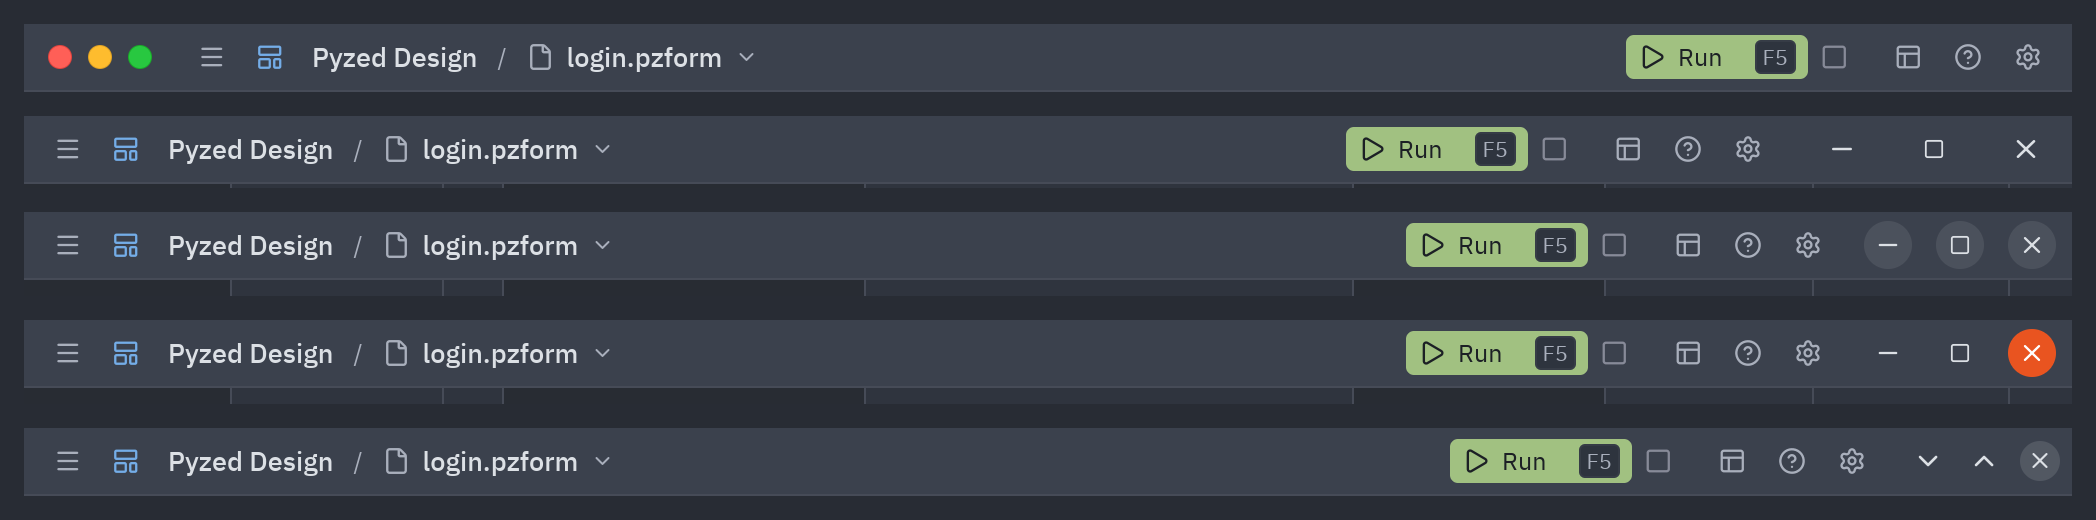
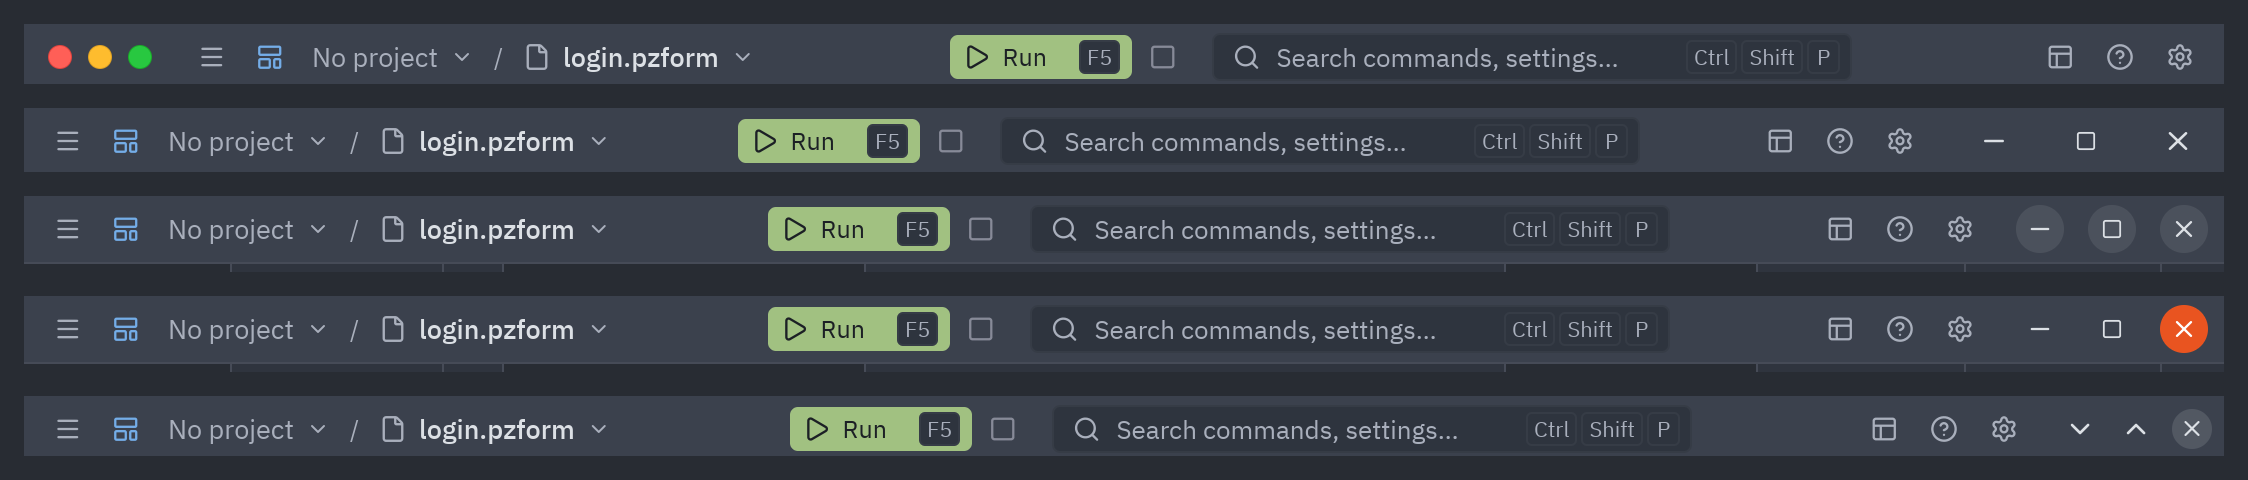
🍱 Make the window frames picture from the current title bars in designer_shots.py

diff --git a/docs/scripts/designer_shots.py b/docs/scripts/designer_shots.py
@@ -118,8 +118,38 @@ def title_bar():
         out = EDITOR / f"title-bar-{style}.png"
         save(app, out)
         crop(out, (0, 0, SIZE[0], ui_frame.HEIGHTS[style] + 4))
+    window_frames()
     app = make(frame=None)
     save(app, EDITOR / "system-frame.png")
+
+
+def window_frames(width=1100, gap=12):
+    """The title bar of every desktop stacked in one picture (macOS, Windows, GNOME, Ubuntu, KDE), on a
+    narrower window so the bars stay readable."""
+    from PIL import Image
+
+    from pyzed.ui import frame as ui_frame
+
+    bars = []
+    work = Path(tempfile.mkdtemp(prefix="pyzed-frames-"))
+    for style in ("macos", "windows", "gnome", "ubuntu", "kde"):
+        app = make(frame=style)
+        tmp = work / f"{style}.png"
+        app.toasts.clear()
+        app.screenshot(tmp, size=(width, 700), scale=SCALE)
+        with Image.open(tmp) as im:
+            bars.append(im.convert("RGB").crop((0, 0, im.width, ui_frame.HEIGHTS[style] * SCALE)))
+    pad = gap * SCALE
+    bg = pz.themes.get("One Dark").editor
+    sheet = Image.new("RGB", (bars[0].width + 2 * pad, sum(b.height + pad for b in bars) + pad),
+                      tuple(int(bg.lstrip("#")[i:i + 2], 16) for i in (0, 2, 4)))
+    y = pad
+    for bar in bars:
+        sheet.paste(bar, (pad, y))
+        y += bar.height + pad
+    out = EDITOR / "window-frames.png"
+    sheet.save(out, optimize=True)
+    print("wrote", out.relative_to(ROOT))
 
 
 @shot
